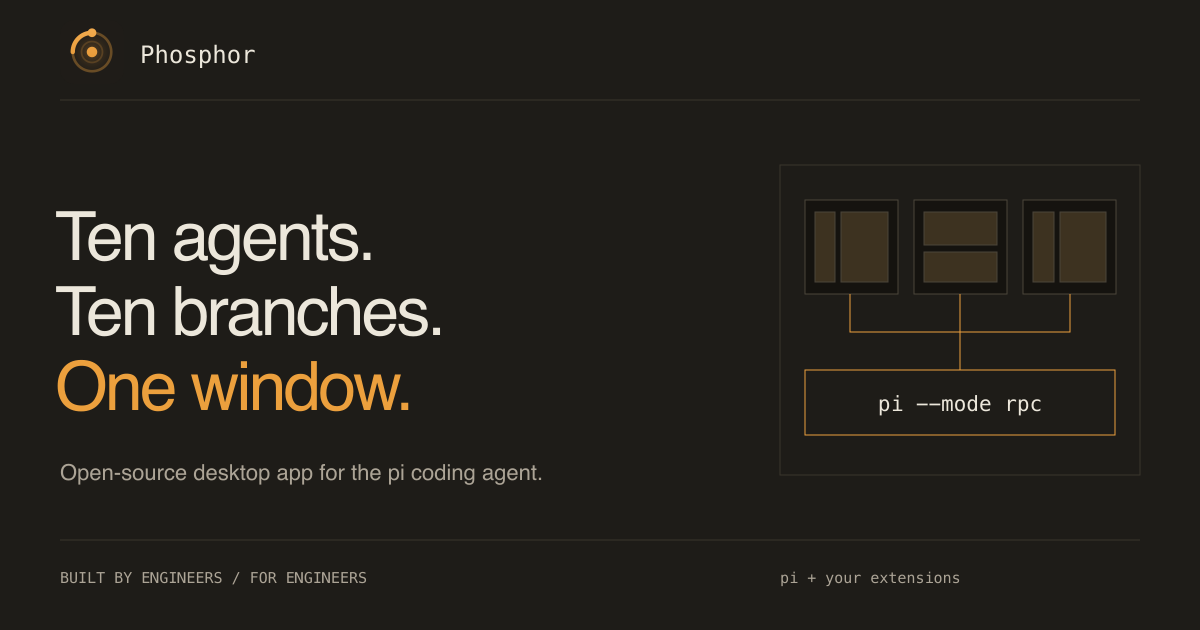
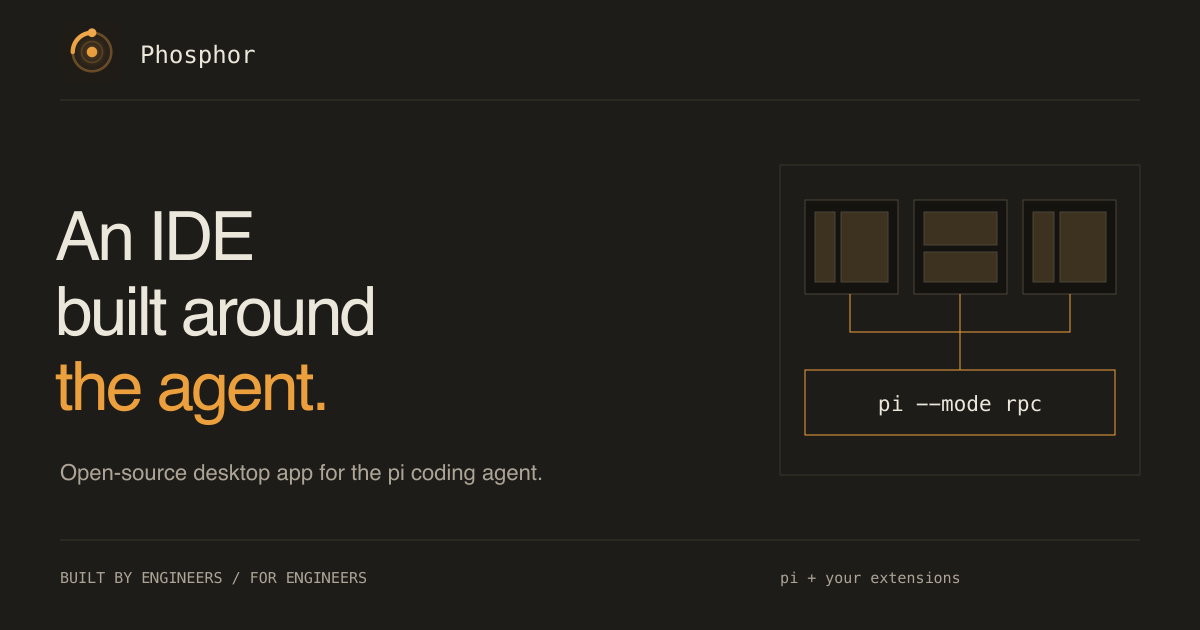
Site: headline is 'An IDE built around the agent.'

Changed region(s): [[0.0308, 0.3317, 0.37, 0.5429], [0.0308, 0.573, 0.3392, 0.6937]]

diff --git a/apps/site/tests/landing.spec.ts b/apps/site/tests/landing.spec.ts
@@ -151,7 +151,7 @@ test('header links go to the repo and straight to the latest release', async ({ 
 
 test('actual layouts use native controls and keyboard navigation', async ({ page }) => {
   await page.goto('/')
-  await expect(page.locator('h1')).toHaveText('Ten agents. Ten branches. One window.')
+  await expect(page.locator('h1')).toHaveText('An IDE built around the agent.')
   await expect(page.locator('.package-card')).toHaveCount(5)
   await expect(page.locator('.connector-grid > a')).toHaveCount(8)
   await page.locator('#surface summary').click()
